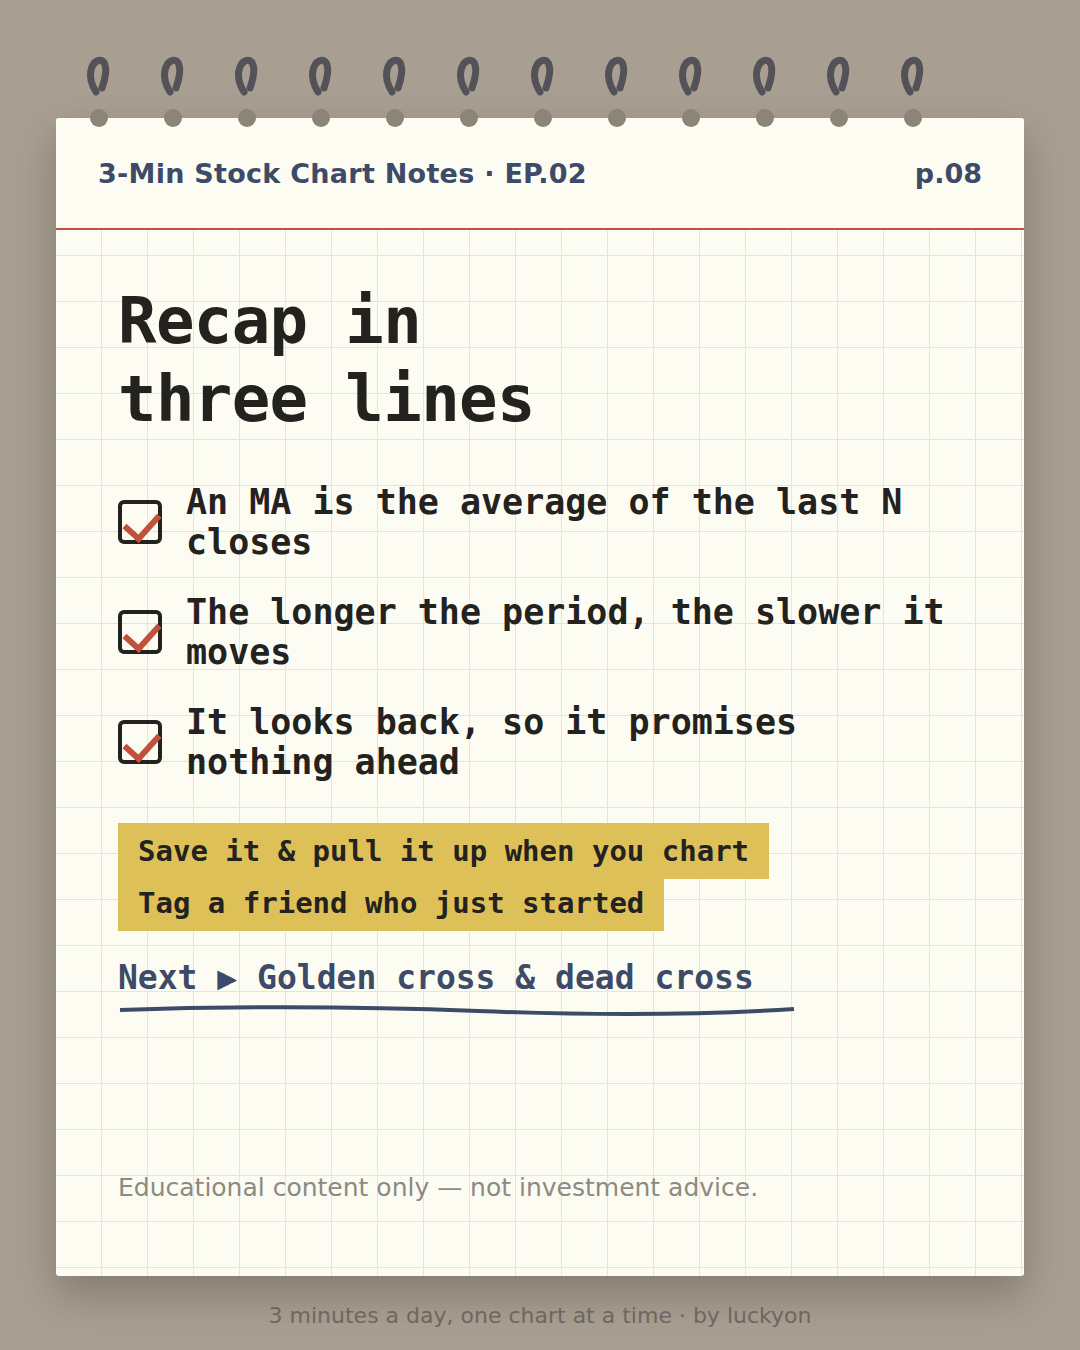
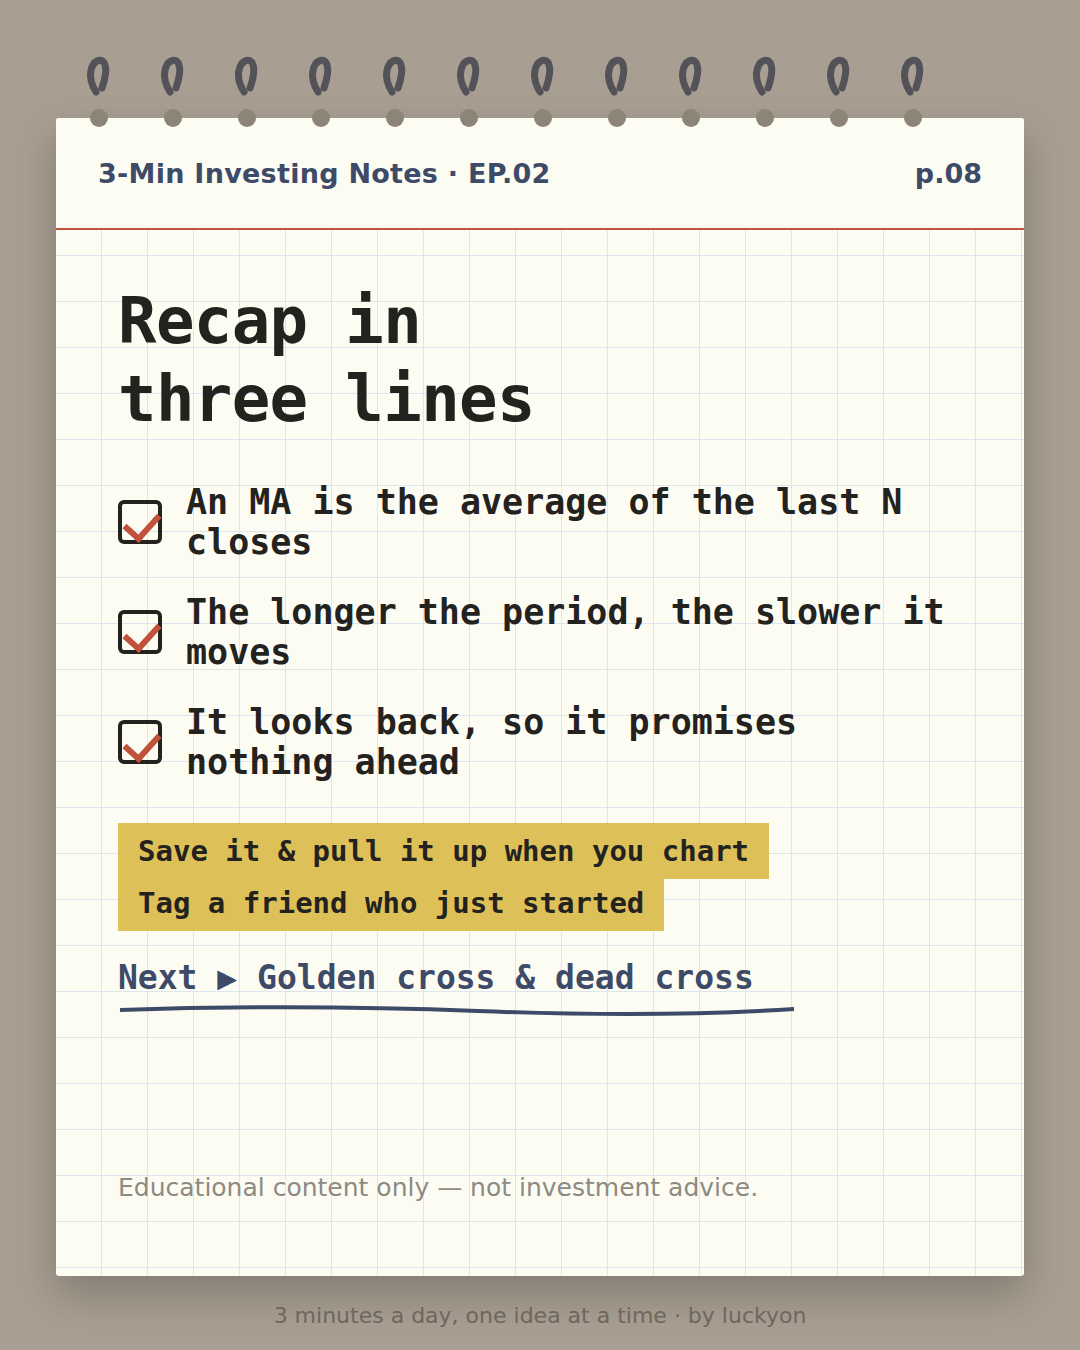
chart-notes: 시리즈명을 '투자 3분 노트' 로 변경
로드맵 뒷부분이 ROE·RSI 를 넘어 ISA 계좌·금리까지 갈 예정이라
'주식 차트' 가 담지 못하는 주제가 생긴다. 발행된 회차가 EP.01 하나뿐인
지금이 이름을 바꾸는 비용이 가장 싼 시점이라 여기서 바꾼다.

- 주식 차트 3분 노트 → 투자 3분 노트
- 3-Min Stock Chart Notes → 3-Min Investing Notes
- 푸터: 매일 3분씩 배우는 주식 차트 → 매일 3분씩 배우는 투자 공부
- 푸터(en): one chart at a time → one idea at a time

EP.01 의 콘텐츠 JSON 은 옛 이름 그대로 둔다 — 실제로 그 이름으로
발행된 기록이기 때문이다. 렌더러는 회차 JSON 의 series 를 우선 쓰므로
EP.01 을 다시 렌더해도 발행 당시 이름이 유지된다.

Claude-Session: https://claude.ai/code/session_01KVufYXifTd2GskUUNjRbR9

Changed region(s): [[0.2444, 0.9644, 0.7639, 0.9956], [0.1833, 0.0933, 0.55, 0.1556]]

diff --git a/cards/chart-notes/2026-08-02-ep02/preview.html b/cards/chart-notes/2026-08-02-ep02/preview.html
@@ -35,7 +35,7 @@
 </style></head><body>
 
 <h1>EP.02 · 이동평균선</h1>
-<div class="meta">주식 차트 3분 노트 · 발행 예정 2026-08-02 · stamp <code>2026-08-02-ep02</code></div>
+<div class="meta">투자 3분 노트 · 발행 예정 2026-08-02 · stamp <code>2026-08-02-ep02</code></div>
 
 <div class="chk"><b>검토 체크리스트</b>
 <ul>
@@ -62,8 +62,8 @@
     <h2>🇰🇷 한국어 — 8장</h2>
     <div class="cards">
     <figure>
-      <img src="ko/card1.png" alt="주식 차트 3분 노트 EP.02 표지 — 차트 위 그 곡선, 계산은 나눗셈 한 번입니다" loading="lazy">
-      <figcaption><b>p.01</b> 주식 차트 3분 노트 EP.02 표지 — 차트 위 그 곡선, 계산은 나눗셈 한 번입니다</figcaption>
+      <img src="ko/card1.png" alt="투자 3분 노트 EP.02 표지 — 차트 위 그 곡선, 계산은 나눗셈 한 번입니다" loading="lazy">
+      <figcaption><b>p.01</b> 투자 3분 노트 EP.02 표지 — 차트 위 그 곡선, 계산은 나눗셈 한 번입니다</figcaption>
     </figure>
     <figure>
       <img src="ko/card2.png" alt="차트 위 구불구불한 선들의 정체 — 캔들 위에 겹쳐진 이동평균선 소개" loading="lazy">
@@ -93,14 +93,14 @@
       <img src="ko/card8.png" alt="오늘의 3줄 요약과 다음 편(골든크로스 &amp; 데드크로스) 예고, 투자 권유가 아니라는 교육 목적 고지" loading="lazy">
       <figcaption><b>p.08</b> 오늘의 3줄 요약과 다음 편(골든크로스 &amp; 데드크로스) 예고, 투자 권유가 아니라는 교육 목적 고지</figcaption>
     </figure></div>
-    <h3>캡션 (498자)</h3>
-    <div class="cap">📊 주식 차트 3분 노트 EP.02 — 이동평균선<br><br>차트 위에 겹쳐진 그 부드러운 곡선들, 이동평균선입니다.<br>최근 며칠 종가를 더해서 그 날수로 나눈 값일 뿐인데, 왜 다들 이 선부터 보라고 할까요?<br><br>5일선은 최근 한 주, 20일선은 최근 한 달의 평균입니다. 기간이 길수록 선은 느리게 움직입니다.<br><br>실제로 2026년 6월 29일 삼성전자는 종가 323,000원으로 20일선(334,975원) 아래로 내려갔고, 7월 31일까지 되찾지 못했습니다.<br>다만 지난 1년만 놓고 보면 20일선을 27번이나 오갔습니다. 선을 한 번 내줬다고 방향이 정해지는 건 아닙니다.<br><br>📌 저장해두고 차트 볼 때 꺼내보세요<br>👇 주식 시작한 친구 태그하기<br>(교육 목적 콘텐츠이며 투자 권유가 아닙니다)<br><br>다음 편은 '골든크로스 &amp; 데드크로스' — 선 두 개가 만나는 순간을 읽습니다.<br><br>#주식초보 #주식공부 #이동평균선 #이평선 #20일선 #주식차트보는법 #삼성전자 #재테크 #주식용어 #luckyon브리핑</div>
+    <h3>캡션 (495자)</h3>
+    <div class="cap">📊 투자 3분 노트 EP.02 — 이동평균선<br><br>차트 위에 겹쳐진 그 부드러운 곡선들, 이동평균선입니다.<br>최근 며칠 종가를 더해서 그 날수로 나눈 값일 뿐인데, 왜 다들 이 선부터 보라고 할까요?<br><br>5일선은 최근 한 주, 20일선은 최근 한 달의 평균입니다. 기간이 길수록 선은 느리게 움직입니다.<br><br>실제로 2026년 6월 29일 삼성전자는 종가 323,000원으로 20일선(334,975원) 아래로 내려갔고, 7월 31일까지 되찾지 못했습니다.<br>다만 지난 1년만 놓고 보면 20일선을 27번이나 오갔습니다. 선을 한 번 내줬다고 방향이 정해지는 건 아닙니다.<br><br>📌 저장해두고 차트 볼 때 꺼내보세요<br>👇 주식 시작한 친구 태그하기<br>(교육 목적 콘텐츠이며 투자 권유가 아닙니다)<br><br>다음 편은 '골든크로스 &amp; 데드크로스' — 선 두 개가 만나는 순간을 읽습니다.<br><br>#주식초보 #주식공부 #이동평균선 #이평선 #20일선 #주식차트보는법 #삼성전자 #재테크 #주식용어 #luckyon브리핑</div>
 
     <h2>🇺🇸 English — 8장</h2>
     <div class="cards">
     <figure>
-      <img src="en/card1.png" alt="3-Min Stock Chart Notes EP.02 cover — that smooth curve is one division, nothing more" loading="lazy">
-      <figcaption><b>p.01</b> 3-Min Stock Chart Notes EP.02 cover — that smooth curve is one division, nothing more</figcaption>
+      <img src="en/card1.png" alt="3-Min Investing Notes EP.02 cover — that smooth curve is one division, nothing more" loading="lazy">
+      <figcaption><b>p.01</b> 3-Min Investing Notes EP.02 cover — that smooth curve is one division, nothing more</figcaption>
     </figure>
     <figure>
       <img src="en/card2.png" alt="Those smooth curves on the chart — introducing moving averages laid over candles" loading="lazy">
@@ -130,8 +130,8 @@
       <img src="en/card8.png" alt="Recap in three lines, a preview of the next episode on the golden and dead cross, and an educational-purpose disclaimer" loading="lazy">
       <figcaption><b>p.08</b> Recap in three lines, a preview of the next episode on the golden and dead cross, and an educational-purpose disclaimer</figcaption>
     </figure></div>
-    <h3>캡션 (964자)</h3>
-    <div class="cap">📊 3-Min Stock Chart Notes EP.02 — Moving averages<br><br>Those smooth curves laid over the candles are moving averages.<br>Add up the last few closes, divide by how many — that's the whole calculation. So why does everyone say to watch this line first?<br><br>A 5-day line is last week's average, a 20-day is last month's. The longer the period, the slower the line moves.<br><br>A real one: on June 8, 2026 Apple closed at $301.54, just under its 20-day average of $304.66, and it took until July 2 to climb back above.<br>Zoom out, though, and Apple crossed that line 18 times in the past year. One break settles nothing.<br><br>📌 Save it &amp; pull it up when you chart<br>👇 Tag a friend who just started investing<br>(Educational content only — not investment advice)<br><br>Next up: the golden cross &amp; the dead cross — what happens when two lines meet.<br><br>#investing101 #stockmarket #movingaverage #technicalanalysis #tradingforbeginners #stockmarketbasics #investingtips #charting #AAPL #luckyonbriefing</div>
+    <h3>캡션 (962자)</h3>
+    <div class="cap">📊 3-Min Investing Notes EP.02 — Moving averages<br><br>Those smooth curves laid over the candles are moving averages.<br>Add up the last few closes, divide by how many — that's the whole calculation. So why does everyone say to watch this line first?<br><br>A 5-day line is last week's average, a 20-day is last month's. The longer the period, the slower the line moves.<br><br>A real one: on June 8, 2026 Apple closed at $301.54, just under its 20-day average of $304.66, and it took until July 2 to climb back above.<br>Zoom out, though, and Apple crossed that line 18 times in the past year. One break settles nothing.<br><br>📌 Save it &amp; pull it up when you chart<br>👇 Tag a friend who just started investing<br>(Educational content only — not investment advice)<br><br>Next up: the golden cross &amp; the dead cross — what happens when two lines meet.<br><br>#investing101 #stockmarket #movingaverage #technicalanalysis #tradingforbeginners #stockmarketbasics #investingtips #charting #AAPL #luckyonbriefing</div>
 
 
 <div class="act">

diff --git a/content/chart-notes/_roadmap.md b/content/chart-notes/_roadmap.md
@@ -1,4 +1,4 @@
-# 주식 차트 3분 노트 — 제작 로드맵
+# 투자 3분 노트 — 제작 로드맵
 
 > 매주 **일요일 11:00 KST** 발행, 회차당 카드 8장 × 한국어·영어.
 > 기계가 읽는 대장은 `_series.json` 이고, 이 문서는 **사람이 읽는 기획서**다.
@@ -75,13 +75,19 @@
 **주제를 바꾸고 싶을 때**는 이 문서와 `_series.json` 의 `backlog` 를 **함께** 고친다.
 루틴은 `_series.json` 만 읽으므로, 이 문서만 고치면 반영되지 않는다.
 
-**EP.02 를 2부작으로 나눈 이유 (2026-08-02).** 원래 EP.02 는 '이동평균선 & 골든크로스' 한 편이었다.
+**EP.02 를 두 회차로 나눈 이유 (2026-08-02).** 원래 EP.02 는 '이동평균선 & 골든크로스' 한 편이었다.
 이동평균선 3장 + 교차 3장으로 갈려 카드당 밀도가 높았고, 교차가 표지 훅을 가져가면서
-이동평균선이 교차를 설명하기 위한 준비 과정으로 밀려 있었다. 그래서 상·하편으로 나눴다.
+이동평균선이 교차를 설명하기 위한 준비 과정으로 밀려 있었다. 그래서 EP.02 = 이동평균선,
+EP.03 = 골든크로스 & 데드크로스로 나눴다. **(상)/(하) 같은 부제는 쓰지 않는다** — 각 회차가 독립된 제목을 갖는다.
 
-편성 원칙 4번(예고한 주제를 바꾸지 않는다)과는 어긋난다. EP.01 이 예고한 제목은 '이동평균선 & 골든크로스' 였는데
-EP.02 는 이동평균선까지만 다룬다. 상·하편 표기도 쓰지 않기로 했다(2026-08-02 사용자 결정).
-예고한 나머지 절반은 바로 다음 회차인 EP.03 에서 이어지므로, 주제가 사라지는 것이 아니라 한 주 미뤄지는 것이다.
+이는 편성 원칙 4번(예고한 주제를 바꾸지 않는다)에 어긋난다. EP.01 이 예고한 제목은 '이동평균선 & 골든크로스'
+였는데 EP.02 는 이동평균선까지만 다룬다. 예고한 나머지 절반이 바로 다음 회차에서 이어진다는 점을 근거로
+감수하기로 했다(2026-08-02 사용자 결정). 주제가 사라지는 것이 아니라 한 주 미뤄지는 것이다.
+
+**시리즈 이름을 '주식 차트 3분 노트' → '투자 3분 노트' 로 바꿨다 (2026-08-02).** 로드맵 뒷부분이
+ROE·RSI 를 넘어 ISA 계좌·금리까지 갈 예정이라 '차트' 가 담지 못하는 주제가 생긴다. 발행된 회차가
+EP.01 하나뿐인 지금이 이름을 바꾸는 비용이 가장 싼 시점이라 여기서 바꿨다.
+**EP.01 의 콘텐츠 JSON 은 옛 이름 그대로 둔다** — 실제로 그 이름으로 발행된 기록이기 때문이다.
 
 이후 회차는 **번호만 한 칸씩 밀고 날짜는 그대로 둔다.** EP.02 가 예정보다 한 주 이른 8/2 에 나가
 캘린더가 한 주를 흡수하기 때문이다. 거래량은 계속 8/16 이고, 시즌 1 이 EP.07 까지로 한 편 길어진다.

diff --git a/ROUTINE_PROMPT_CHARTNOTES_APPROVE.md b/ROUTINE_PROMPT_CHARTNOTES_APPROVE.md
@@ -1,4 +1,4 @@
-# luckyon — "주식 차트 3분 노트" 승인 처리 절차
+# luckyon — "투자 3분 노트" 승인 처리 절차
 
 > **이것은 별도 루틴이 아닙니다.** 차트 노트는 루틴 하나로 운영하며,
 > `ROUTINE_PROMPT_CHARTNOTES.md` 의 **0-1 단계(디스패처)** 가 밀린 승인 이슈를 발견했을 때

diff --git a/ROUTINE_PROMPT_CHARTNOTES.md b/ROUTINE_PROMPT_CHARTNOTES.md
@@ -1,4 +1,4 @@
-# luckyon — "주식 차트 3분 노트" 루틴 절차서
+# luckyon — "투자 3분 노트" 루틴 절차서
 
 > **이 축은 루틴 하나로 운영합니다.** 트리거 두 개를 같은 루틴에 겁니다.
 >
